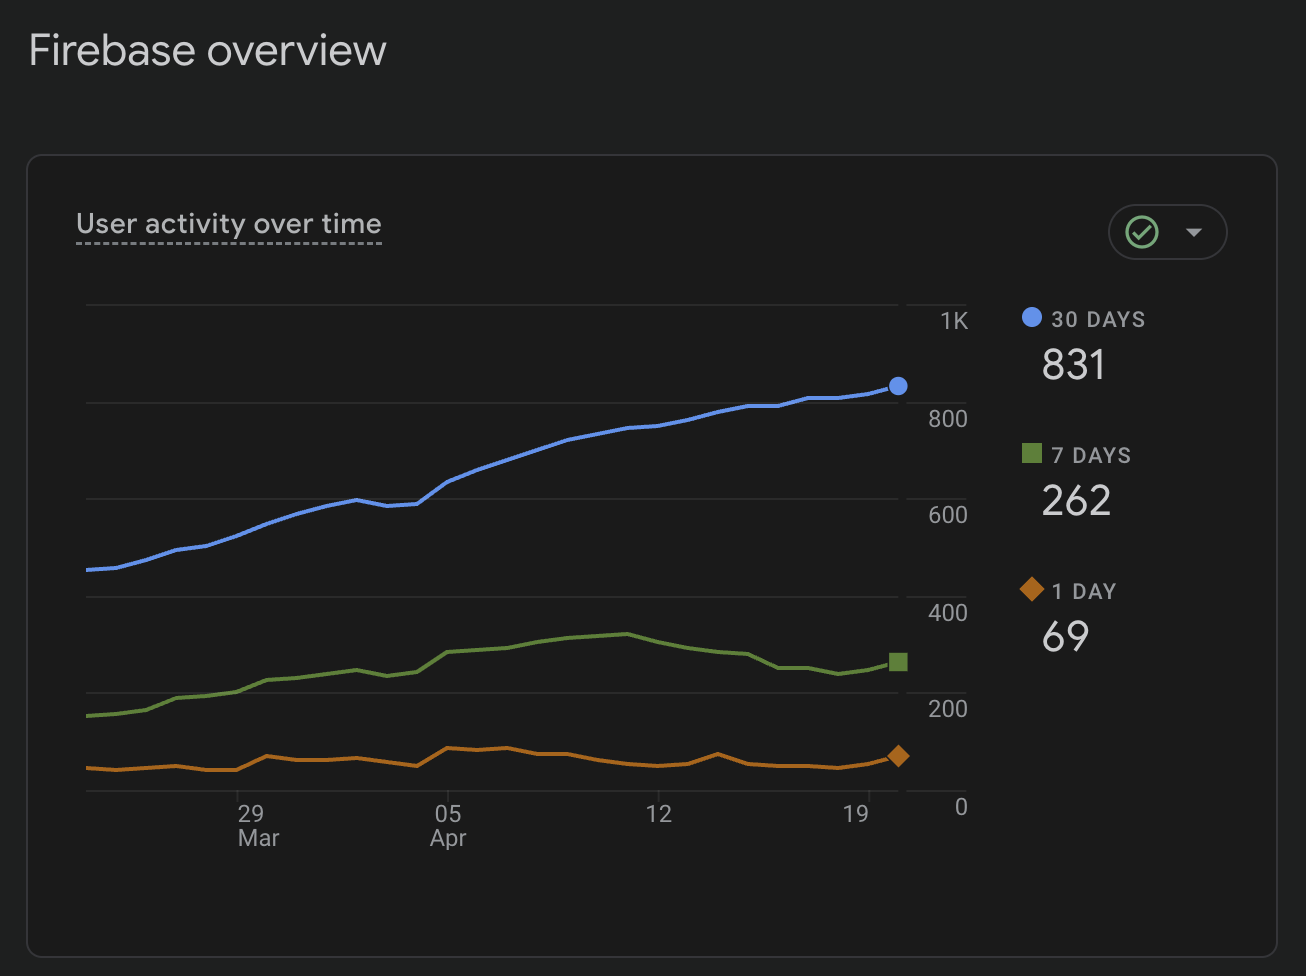
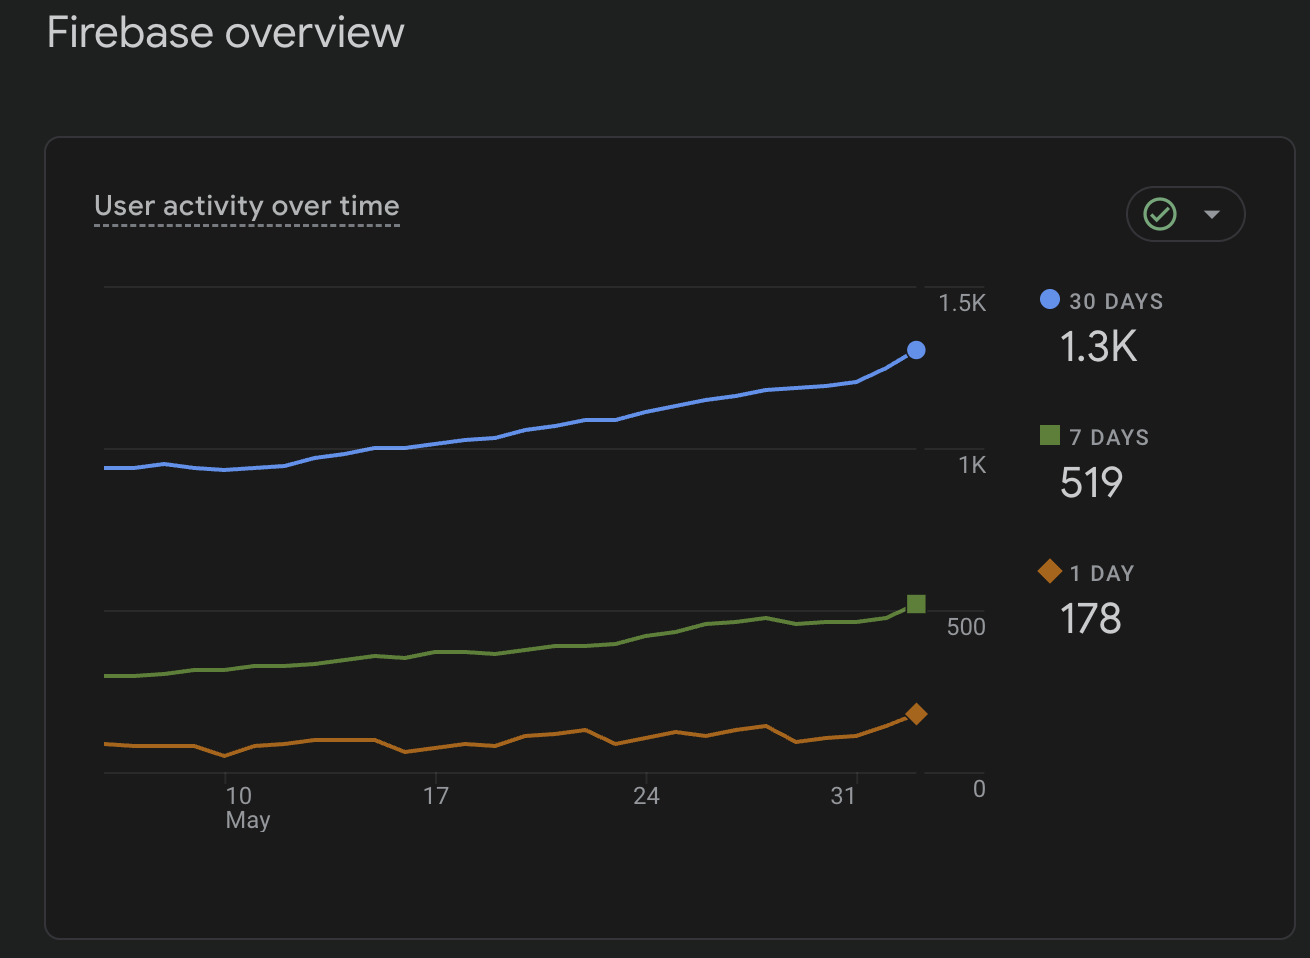
Новый скрин

diff --git a/README.md b/README.md
@@ -120,6 +120,6 @@ Tutor — Android-приложение для создания и прохожд
 [UI-гайд](docs/ru/ui-guidelines.md)
 
 ---
-Статистика Firebase 24.03.26-20.04.26
+Статистика Firebase 03.06.26
 
 ![Скриншот приложения](assets/screenshot.png)
